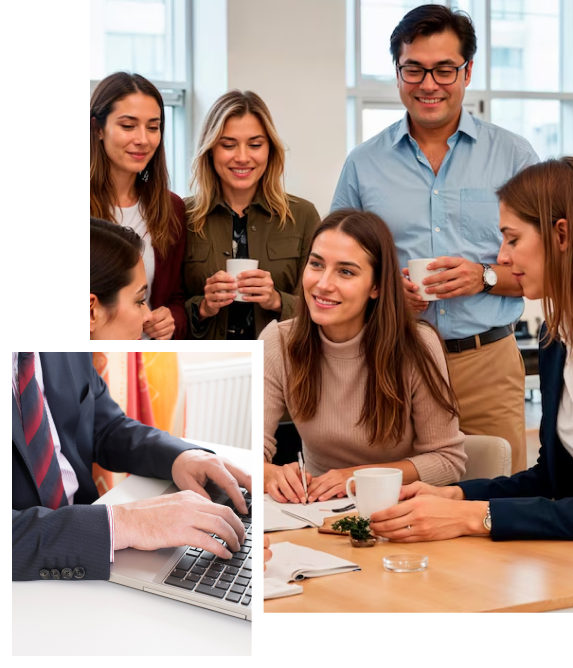
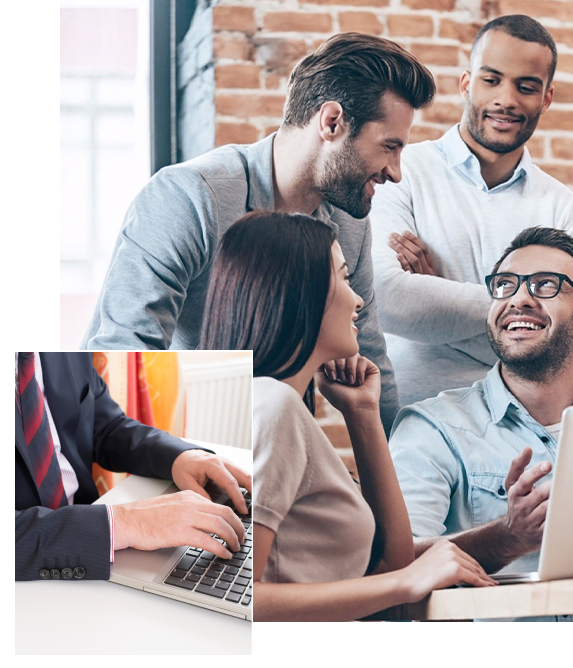
update contact us and about page page

diff --git a/app/pages/about-us.vue b/app/pages/about-us.vue
@@ -73,23 +73,30 @@
         <section class=" bg-gray-100/50 reason-choose-us ">
             <Container>
                 <div class="  lg:flex gap-5 ">
-                    <div class=" hidden lg:flex">
-                        <img src="@/assets/images/three-steps-your-brand.png" alt="Simple Process Steps" srcset="">
+                    <div class=" hidden  w lg:flex">
+                        <img src="@/assets/images/three-steps-your-brand.png" class="" alt="Simple Process Steps" srcset="">
                     </div>
 
                     <div class=" lg:w-1/2 w-full space-y-5 r">
-                        <UiTypographyP class=" "> <span class=" bg-accent-200 e px-2 py-1 font-bold">Simple Process
-                                Steps</span></UiTypographyP>
-                        <UiTypographyH2> <span class=" sm:text-5xl text-3xl leading-snug font-extrabold">Three Steps
-                                Your Brand’s
-                                Identity Trademark Registration</span>
+                        <UiTypographyP class="">
+                            <span class="bg-accent-200 px-2 py-1 font-bold">Simple Process Steps</span>
+                        </UiTypographyP>
+
+                        <UiTypographyH2>
+                            <span class="sm:text-5xl text-3xl leading-snug font-extrabold">
+                                Three Steps to Register Your Brand’s Trademark
+                            </span>
                         </UiTypographyH2>
-                        <UiTypographyP>Getting your trademark registered has never been easier. At Trademark Legal
-                            Shield, we’ve developed a seamless and efficient three-step process designed to eliminate
-                            confusion, reduce delays, and save you valuable time. Whether you're launching a startup,
-                            managing a growing business, or representing an established brand, our experienced trademark
-                            professionals ensure every detail of your application is managed with accuracy, compliance,
-                            and care</UiTypographyP>
+
+                        <UiTypographyP>
+                            Registering your trademark is now more straightforward than ever.
+                            At Trademax, we’ve created a smooth and efficient three-step
+                            process that minimizes confusion, avoids unnecessary delays, and saves you time.
+                            Whether you're a startup founder, a growing business owner, or managing an established
+                            brand, our skilled trademark experts handle every part of your application with precision,
+                            compliance, and care.
+                        </UiTypographyP>
+
                         <div
                             class="relative mt-4 space-y-6  flex flex-col   before:content-['']  before:block before:absolute before:inset-0   before:-z-10   before:top-0  before:left-5  before:sm:left-7  before:w-1   before:h-4/5   before:bg-gray-600">
 
@@ -125,28 +132,24 @@
                     <div class=" lg:w-1/2 w-full space-y-5 r">
                         <UiTypographyP class=" "> <span class=" bg-accent-200 e px-2 py-1 font-bold">Protect Your
                                 Brand</span></UiTypographyP>
-                        <UiTypographyH2> <span class=" sm:text-5xl text-3xl leading-snug font-extrabold">Secure Your
-                                Brand Identity Today</span>
+                        <UiTypographyH2> <span class=" sm:text-5xl text-3xl leading-snug font-extrabold">  Safeguard Your Brand Identity Today</span>
                         </UiTypographyH2>
-                        <UiTypographyP>Protecting your brand is essential in today’s competitive market, and trademark
-                            registration is the best way to secure your
-                            business identity. A registered trademark gives you exclusive legal rights to use your brand
-                            name, logo, or slogan, preventing others
-                            from copying or misusing your intellectual property. <br> <br>
+                        <UiTypographyP>
+                            In today’s competitive marketplace, securing your brand is more important than ever.
+                            Registering your trademark is the most effective way to protect your business identity. It
+                            grants you exclusive legal rights to your brand name, logo, or slogan, ensuring others
+                            cannot misuse or imitate your intellectual property. <br><br>
 
-                            At Trademark Legal Shield, we simplify the complex registration process by handling
-                            everything
-                            from conducting thorough trademark searches to preparing and filing your application with
-                            the
-                            United States Patent and Trademark Office (USPTO). <br> <br>
+                            At Trademax, we streamline the entire registration process for you. Our team
+                            manages every step—from conducting detailed trademark searches to preparing and filing your
+                            application with the United States Patent and Trademark Office (USPTO). <br><br>
 
-                            Our experienced team ensures your trademark application meets all legal
-                            requirements, minimizing delays and increasing your chances of approval.
-                            With our transparent pricing and personalized support, you’ll have peace of mind knowing
-                            your brand is fully protected nationwide. Whether you’re a startup or an established
-                            company, Trademark Legal Shield is your trusted partner in safeguarding the unique identity
-                            that sets your business apart.
-                            and care</UiTypographyP>
+                            With our knowledgeable experts, your application is handled with precision and compliance,
+                            reducing delays and improving your chances of approval. Our transparent pricing and
+                            dedicated support give you the confidence that your brand is protected nationwide. Whether
+                            you’re a new business or an established company, Trademark Legal Shield is committed to
+                            preserving the unique identity that makes your brand stand out.
+                        </UiTypographyP>
                         <div class="pt-4 sm:flex block sm:space-y-0  space-y-4 sm:space-x-4">
                             <UiButtonsPrimary @click="openform"><span>Register My Trademark</span></UiButtonsPrimary>
                             <UiButtonsSecondary @click=""><span>Live Chat</span></UiButtonsSecondary>
@@ -246,20 +249,20 @@
                         <UiTypographyP>Trusted by businesses nationwide for reliable trademark protection.
                         </UiTypographyP>
                         <div class="pt-4 bg-gray-100 0  sm:flex block sm:space-y-0  space-y-4 sm:space-x-4">
-                          <Carousel />
+                            <Carousel />
                         </div>
 
 
 
                     </div>
                     <div class=" hidden lg:flex">
-                        <img src="@/assets/images/testimonials-img.png" alt="secure your brands" srcset="">
+                        <img src="@/assets/images/feedback-image.jpg" alt="secure your brands" srcset="">
                     </div>
                 </div>
             </Container>
         </section>
 
-        
+
 
 
 
@@ -281,25 +284,25 @@ const reasonChooseUsList = ref([
     {
         id: 1,
         title: 'Expert Guidance',
-        description: 'Our team of trademark specialists brings years of experience to every application, ensuring your trademark',
+        description: 'Our skilled trademark professionals provide informed, precise support throughout the entire application process.',
         image: 'expert-icon.png'
     },
     {
         id: 2,
-        title: 'Comprehensive Services',
-        description: 'We provide end-to-end support including detailed trademark searches, application preparation, monitoring, and renewal management to protect your brand long-term.',
+        title: 'Comprehensive Solutions',
+        description: 'We deliver complete trademark services — from detailed searches and application drafting to ongoing monitoring and renewals.',
         image: 'comprise-icon.png'
     },
     {
         id: 3,
-        title: 'Affordable Pricing',
-        description: 'Our transparent pricing plans are designed to fit budgets of startups and established businesses alike, with no hidden fees, so you get premium service at a fair cost.',
+        title: 'Transparent & Affordable Pricing',
+        description: 'Our pricing structure is clear, competitive, and designed to offer premium service without unexpected costs.',
         image: 'affordable-icon.png'
     },
     {
         id: 4,
-        title: 'Dedicated Support',
-        description: 'Our transparent pricing plans are designed to fit budgets of startups and established businesses alike, with no hidden fees, so you get premium service at a fair cost.',
+        title: 'Dedicated Client Support',
+        description: 'Our support team is committed to providing timely, reliable assistance at every stage of your trademark journey.',
         image: 'dedicated-icon.png'
     }
 ])
@@ -309,21 +312,22 @@ const reasonChooseUsList = ref([
 
 
 
+
 const stepToTakeList = ref([
     {
         id: 1,
-        title: 'Submit Your Details',
-        description: 'Provide us with your brand name, logo, and basic business information through our secure online form.',
+        title: 'Send Us Your Info',
+        description: 'Share your business name, logo, and basic details using our secure online form.',
     },
     {
         id: 2,
-        title: 'We Handle the Filing',
-        description: 'Our experts conduct a trademark search, prepare your application, and file it with the USPTO — accurately and efficiently.',
+        title: 'We Do the Filing for You',
+        description: 'Our team checks for similar trademarks, prepares your application, and files it with the USPTO.',
     },
     {
         id: 3,
-        title: 'Get Official Protection',
-        description: 'Once approved, your trademark is officially registered, giving you exclusive legal rights and nationwide brand protection.',
+        title: 'Receive Your Trademark',
+        description: 'After approval, your trademark gets officially registered and protected across the country.',
         image: 'ongoing-icon.png'
     }
 ])
@@ -331,26 +335,26 @@ const stepToTakeList = ref([
 const faqList = ref([
     {
         id: 1,
-        title: 'Q1: What is a trademark and why do I need one?',
-        description: 'A trademark protects your brand’s name, logo, or slogan from being used by others. It helps secure your business identity and builds trust with your customers.',
+        title: 'Q1: What is a trademark, and why is it important?',
+        description: 'A trademark protects your brand name, logo, or slogan from unauthorized use. It secures your business identity and strengthens customer trust.',
         showdescription: false
     },
     {
         id: 2,
-        title: 'Q2: Can I register a trademark for multiple classes?',
-        description: 'Yes, trademarks can be registered for multiple classes. Our Standard, Deluxe, and Platinum plans accommodate multiple classes with added services.',
+        title: 'Q2: Can I register a trademark in multiple classes?',
+        description: 'Yes. You can file a trademark across multiple classes. Our Standard, Deluxe, and Platinum plans support multi-class applications with additional services.',
         showdescription: false
     },
     {
         id: 3,
-        title: ' Q3: Do you handle the entire trademark registration process?',
-        description: 'Yes! We manage everything from conducting a trademark search to filing the application and responding to USPTO communications.',
+        title: 'Q3: Do you handle the full trademark registration process?',
+        description: 'Absolutely. We take care of everything — from conducting a trademark search to filing your application and managing all USPTO correspondence.',
         showdescription: false
     },
     {
         id: 4,
-        title: '  Q4: What are USPTO fees, and are they included in your prices?',
-        description: 'USPTO filing fees are government fees charged by the United States Patent and Trademark Office and vary by trademark class. Our service prices exclude these fees, which you pay directly to the USPTO.',
+        title: 'Q4: What are USPTO fees, and are they included in your pricing?',
+        description: 'USPTO filing fees are government charges set by the United States Patent and Trademark Office and vary by class. These fees are not included in our service pricing and are paid directly to the USPTO.',
         showdescription: false
     }
 ])

diff --git a/app/components/Carousel.vue b/app/components/Carousel.vue
@@ -86,22 +86,38 @@
 
 <script setup>
 import { ref } from 'vue';
-
 const reviewsList = ref([
   {
-    text: "Working with Trademark Legal Shield was a fantastic experience. As a new business owner, I was unsure about the trademark process, but their team guided me through every step with patience and professionalism. Thanks to their expertise, my brand is now fully protected.",
+    text: "My experience with Trademax was outstanding. As a first-time business owner, I wasn’t familiar with the trademark process, but their team walked me through everything with clarity and professionalism. Because of their support, my brand is now properly secured.",
     name: "Sam Martinez",
     rating: 4.9
   },
   {
-    text: "Trademark Legal Shield’s Platinum package exceeded my expectations. Beyond just filing the trademark, they provided continuous monitoring and renewal reminders that helped me avoid any lapses. Their personalized support and legal advice gave me peace of mind knowing my intellectual property is in good hands. Their professionalism and dedication make them stand out in the trademark services industry.",
+    text: "The Trademax Platinum package truly impressed me. They didn’t just file my trademark—they also handled ongoing monitoring and provided renewal reminders to keep everything on track. Their personalized guidance and legal insight gave me complete confidence that my intellectual property was well protected.",
     name: "Jessica Lee",
     rating: 5
   },
   {
-    text: "I chose Trademark Legal Shield because of their reputation for reliable and efficient service, and they did not disappoint. The staff was incredibly knowledgeable and took the time to explain the nuances of trademark registration. Their response to a USPTO office action on my behalf was prompt and effective, which made all the difference in getting my trademark approved without delays. I highly recommend Trademark Legal Shield to anyone serious about protecting their brand.",
+    text: "I went with Trademax because of their strong reputation for dependable service, and they definitely lived up to it. Their team was knowledgeable, patient, and made the trademark process easy to understand. Their quick and effective response to a USPTO office action helped my application get approved without delays.",
     name: "Michael Brown",
     rating: 4.5
+  },
+
+  // NEW REVIEWS
+  {
+    text: "Trademax provided exceptional service from start to finish. They carefully reviewed my documents and made sure everything met USPTO standards. Their communication was always clear and timely, making the entire process stress-free.",
+    name: "Ava Thompson",
+    rating: 4.8
+  },
+  {
+    text: "I was impressed by how thorough and organized the Trademax team was. They conducted a detailed search for potential conflicts before filing and kept me updated throughout the process. Their professionalism gave me full confidence in my trademark protection.",
+    name: "Daniel Carter",
+    rating: 5
+  },
+  {
+    text: "From the moment I contacted Trademax, I felt supported. They simplified the legal steps and ensured I understood what to expect. Their guidance helped my trademark get approved smoothly. I highly recommend their services to any business owner.",
+    name: "Emily Johnson",
+    rating: 4.7
   }
 ]);
 

diff --git a/app/pages/forms.vue b/app/pages/forms.vue
@@ -227,15 +227,12 @@
                 </UiTypographyP>
 
                 <UiTypographyP class=" text-center te">
-                  We have received all your details and our case filing experts are currently reviewing your trademark
-                  application. Please note that we have not yet charged your application fee. You will recieve
-                  confirmation call by the assigned case filing officer within 12 hours, after which we will charge the
-                  trademark application fee and initiate your trademark registration process.
+               We have received all your information, and our case filing experts are currently reviewing your trademark application. Please note that your application fee has not been charged yet. A case officer will contact you within 12 hours to confirm the details, after which the fee will be processed.
                 </UiTypographyP>
 
                 <UiTypographyP class="text-center text-gray-300 p-6">
                   Should you have any query, please feel free to reach us at +1 (415) 579 1344 or
-                  info@trademarklegalshield.com.
+                 trademaxproject@gmail.com
                 </UiTypographyP>
               </div>
 

diff --git a/app/pages/contact-us.vue b/app/pages/contact-us.vue
@@ -71,7 +71,7 @@
                                     </UiTypographyH3>
                                     <UiTypographyP>
                                         <span class="  text-center font-bold">
-                                            info@trademarklegalshield.com
+                                            trademaxproject@gmail.com
                                         </span>
                                     </UiTypographyP>
                                 </div>
